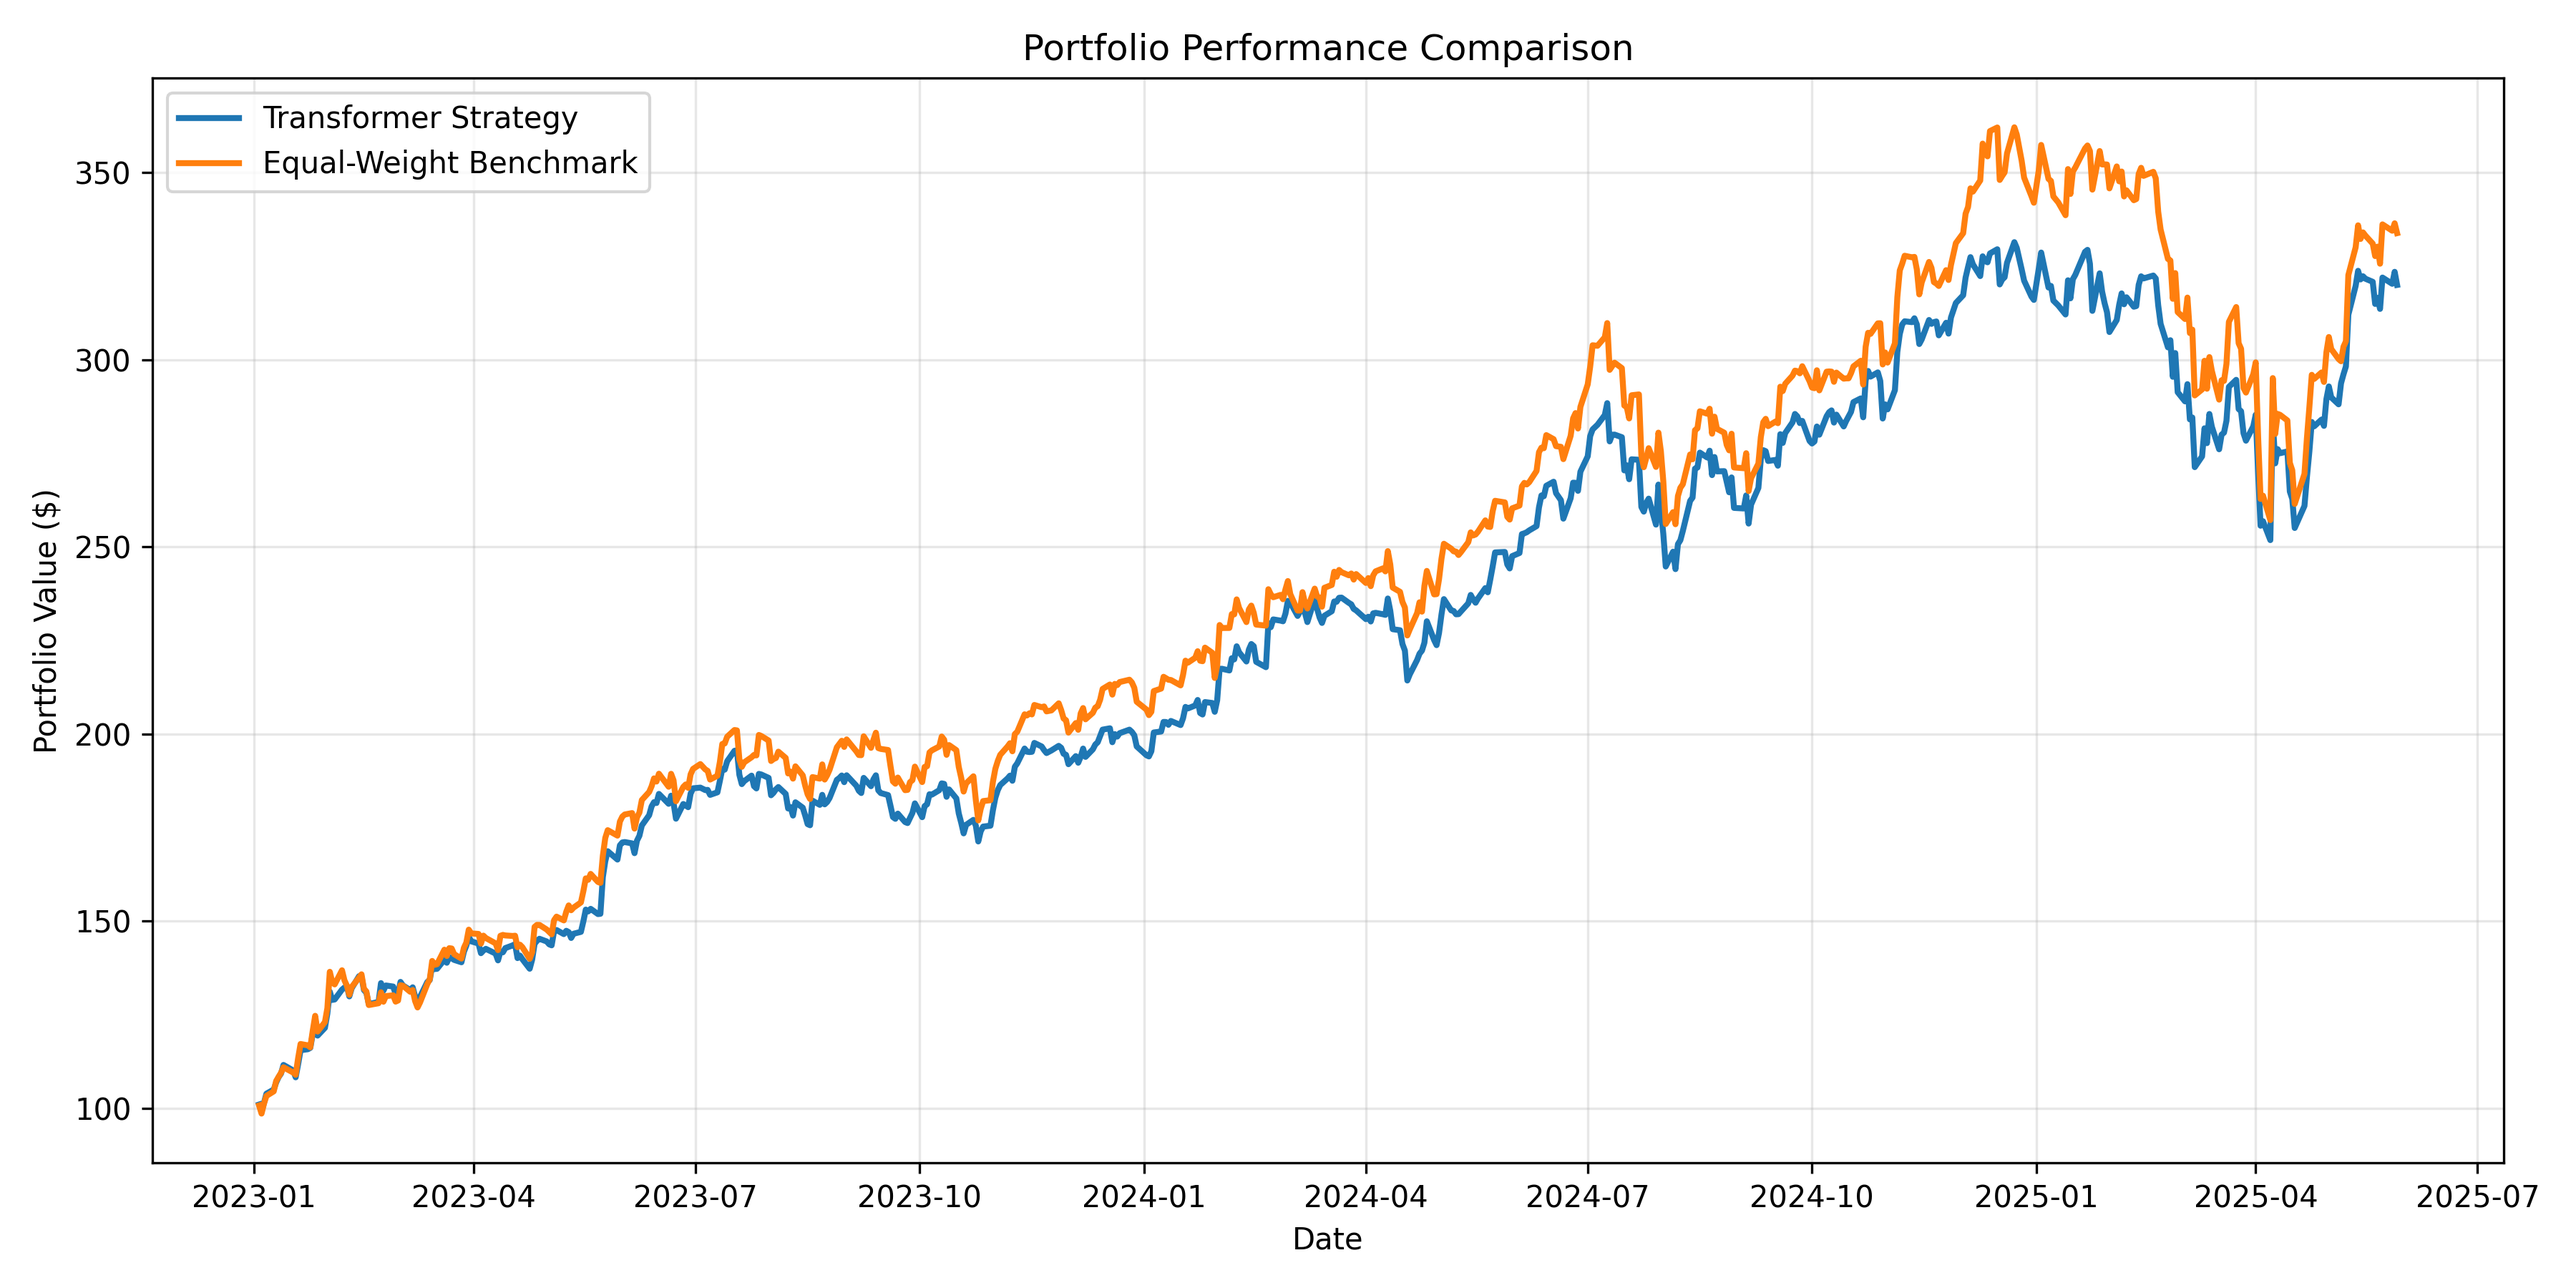
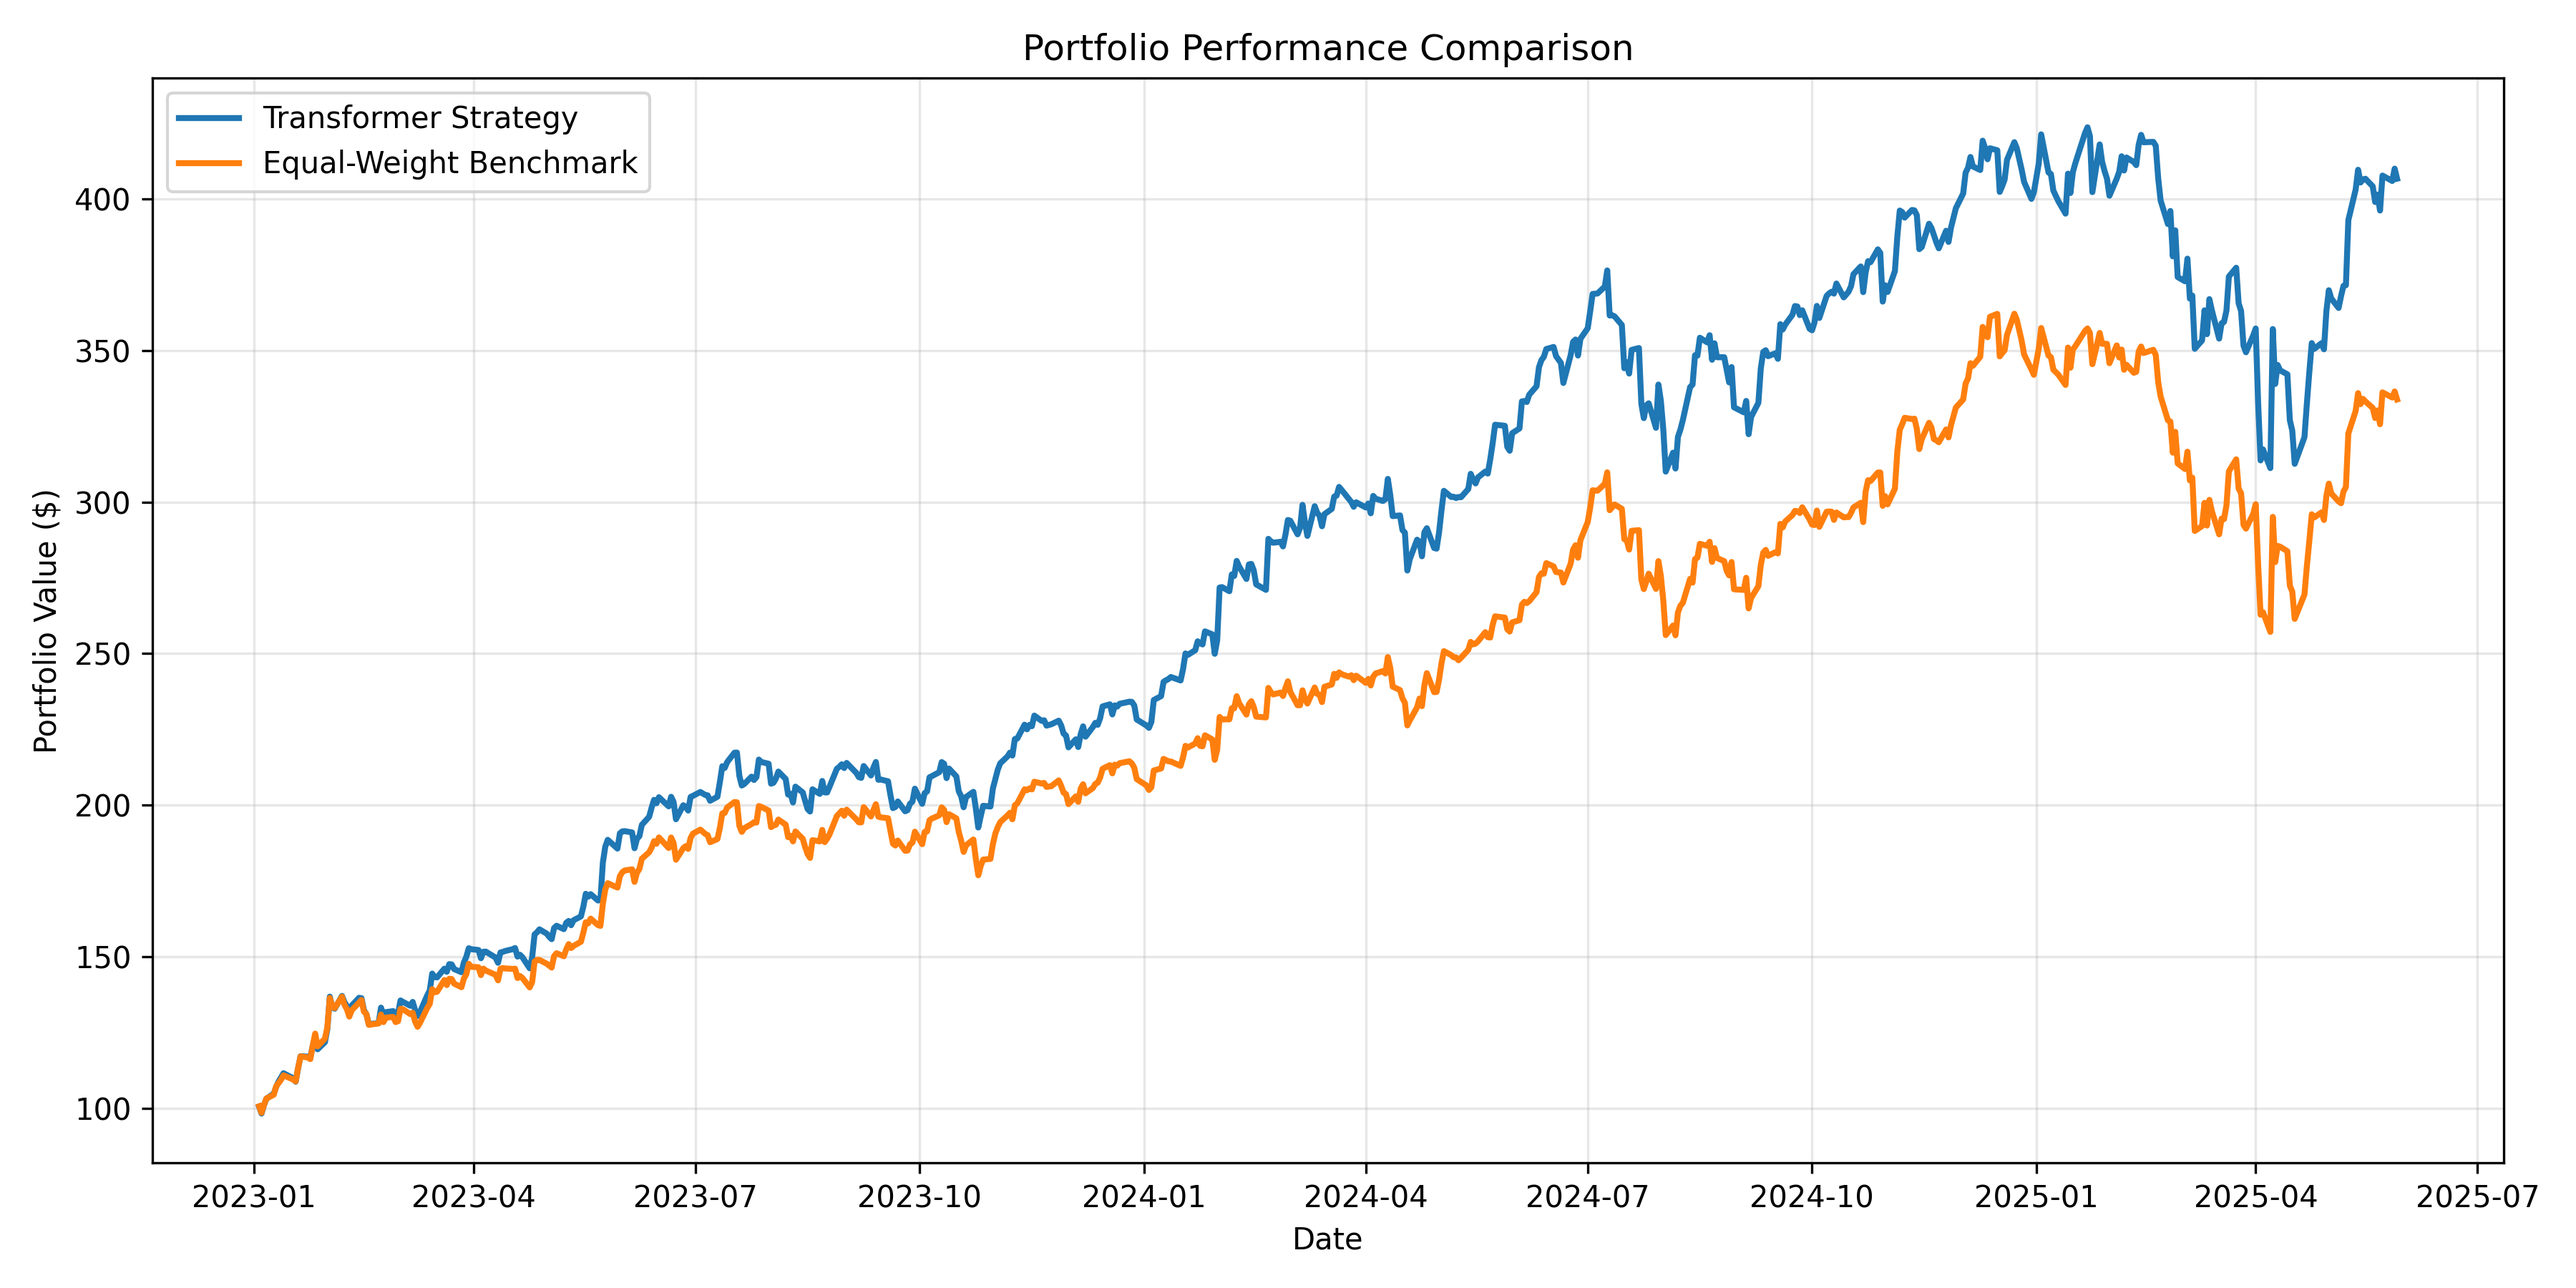
t

diff --git a/tech.py b/tech.py
@@ -30,11 +30,11 @@ DROPOUT = float(os.environ.get("DROPOUT", 0.3))
 LEARNING_WARMUP = int(os.environ.get("LEARNING_WARMUP", 460))
 DECAY = float(os.environ.get("DECAY", 0.0175))
 
-FEATURE_ATTENTION_ENABLED = bool(int(os.environ.get("FEATURE_ATTENTION_ENABLED", 0)))
-L2_PENALTY_ENABLED = bool(int(os.environ.get("L2_PENALTY_ENABLED", 0)))
-RETURN_PENALTY_ENABLED = bool(int(os.environ.get("RETURN_PENALTY_ENABLED", 0)))
+FEATURE_ATTENTION_ENABLED = bool(int(os.environ.get("FEATURE_ATTENTION_ENABLED", 1)))
+L2_PENALTY_ENABLED = bool(int(os.environ.get("L2_PENALTY_ENABLED", 1)))
+RETURN_PENALTY_ENABLED = bool(int(os.environ.get("RETURN_PENALTY_ENABLED", 1)))
 LOSS_MIN_MEAN = float(os.environ.get("LOSS_MIN_MEAN", 0.05)) #.02 returns are 'high'
-LOSS_RETURN_PENALTY = float(os.environ.get("LOSS_RETURN_PENALTY", 0.8))
+LOSS_RETURN_PENALTY = float(os.environ.get("LOSS_RETURN_PENALTY", 0.6))
 
 WALKFORWARD_ENABLED = bool(int(os.environ.get("WALKFWD_ENABLED", 0)))
 WALKFORWARD_STEP_SIZE = int(os.environ.get("WALKFWD_STEP", 60))

diff --git a/test.py b/test.py
@@ -25,11 +25,11 @@ grid = {
     "LEARNING_WARMUP": [460],#460
     "DECAY":[0.0175], #0.0175
     
-    "FEATURE_ATTENTION_ENABLED": [0,1],
-    "L2_PENALTY_ENABLED": [0,1],
+    "FEATURE_ATTENTION_ENABLED": [1],
+    "L2_PENALTY_ENABLED": [1],
     "RETURN_PENALTY_ENABLED": [1],
-    "LOSS_MIN_MEAN": [0.005,0.01,0.05],
-    "LOSS_RETURN_PENALTY": [0,0.4,0.7],
+    "LOSS_MIN_MEAN": [0.005,0.006,0.007,0.008,0.01,0.02],
+    "LOSS_RETURN_PENALTY": [0,0.4,0.5,0.7,0.7,1.0],
     
     "WALKFWD_ENABLED": [0],
     "WALKFWD_STEP": [60],
